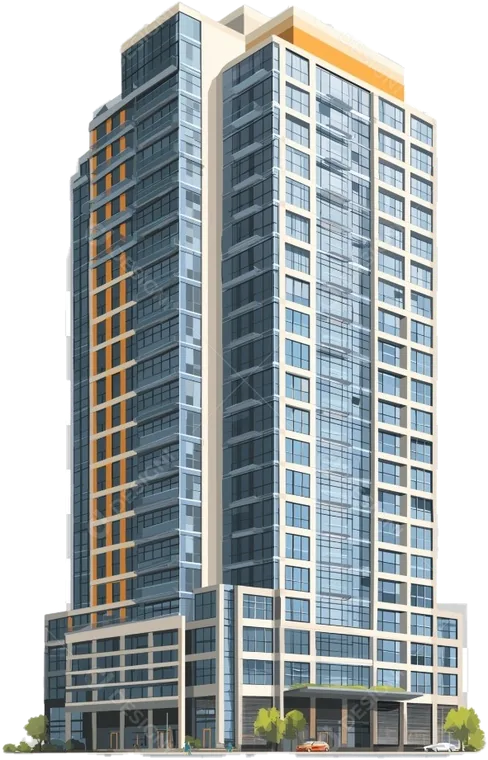
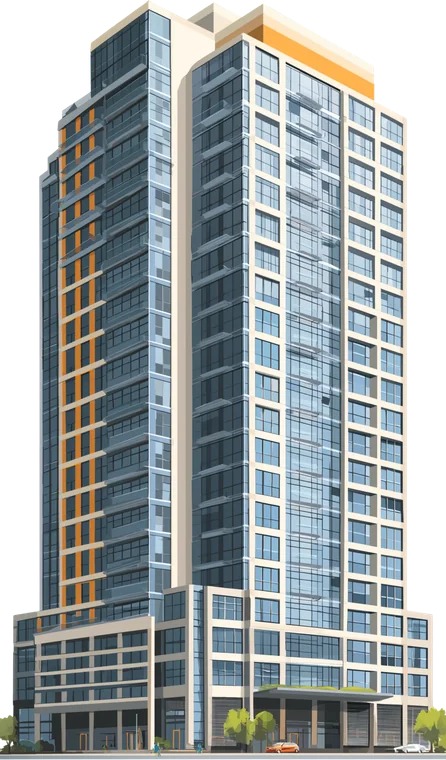
feat: prédios do topo com imagens licenciadas (primeira versão)

diff --git a/index.html b/index.html
@@ -107,11 +107,11 @@
       <!-- Prédios em foto (fundo recortado). Cada um sobe com um pequeno atraso (--atraso) e,
            no computador, se mexe um pouco com o mouse em profundidades diferentes (--prof): efeito de paralaxe -->
       <div class="skyline" id="skyline" aria-hidden="true">
-        <img class="predio" src="img/predio-2.webp" alt="" style="--x: -2%; --h: 70%; --z: 1; --atraso: 0.30s; --prof: 0.4" width="523" height="760">
-        <img class="predio" src="img/predio-1.webp" alt="" style="--x: 8%; --h: 80%; --z: 2; --atraso: 0.15s; --prof: 0.7" width="553" height="760">
-        <img class="predio" src="img/predio-4.webp" alt="" style="--x: 26%; --h: 92%; --z: 4; --atraso: 0s; --prof: 1" width="486" height="760">
-        <img class="predio" src="img/predio-3.webp" alt="" style="--x: 44%; --h: 74%; --z: 3; --atraso: 0.22s; --prof: 0.8" width="624" height="760">
-        <img class="predio" src="img/predio-5.webp" alt="" style="--x: 66%; --h: 62%; --z: 2; --atraso: 0.38s; --prof: 0.5" width="466" height="760">
+        <img class="predio" src="img/predio-2.webp" alt="" style="--x: -2%; --h: 70%; --z: 1; --atraso: 0.30s; --prof: 0.4" width="464" height="760">
+        <img class="predio" src="img/predio-1.webp" alt="" style="--x: 8%; --h: 80%; --z: 2; --atraso: 0.15s; --prof: 0.7" width="437" height="760">
+        <img class="predio" src="img/predio-4.webp" alt="" style="--x: 26%; --h: 92%; --z: 4; --atraso: 0s; --prof: 1" width="446" height="760">
+        <img class="predio" src="img/predio-3.webp" alt="" style="--x: 44%; --h: 74%; --z: 3; --atraso: 0.22s; --prof: 0.8" width="590" height="760">
+        <img class="predio" src="img/predio-5.webp" alt="" style="--x: 66%; --h: 62%; --z: 2; --atraso: 0.38s; --prof: 0.5" width="424" height="760">
       </div>
     </div>
     <svg class="curva" viewBox="0 0 1440 150" preserveAspectRatio="none" aria-hidden="true"><path d="M0,150 L0,95 C360,10 900,0 1440,70 L1440,150 Z"/></svg>

diff --git a/.mentor/TASKS.md b/.mentor/TASKS.md
@@ -12,7 +12,14 @@ Atualizado em: 2026-10-20
 - [ ] Revisão final (Etapa 20)
   - Pronto quando: Vitor confirmar as afirmações abaixo e o commit estiver feito
 
-## Afirmações do site que o Vitor precisa confirmar (vieram do protótipo)
+## Imagens do topo
+
+- Prédios do topo (img/predio-1..5.webp): imagens PNG transparentes de banco de imagens, compradas
+  (licenciadas) pelo Vitor em 2026-10-20; originais em site-guedes/_fotos_tmp. Composição da primeira
+  versão do topo. Os renders de construtoras foram descartados. A 6ª imagem comprada
+  (Edificio_Moderno_PNG_Transparente.png) ficou de reserva.
+
+## Afirmações do site (confirmadas pelo Vitor em 2026-10-20)
 
 - "Desde 2016"
 - "Dois engenheiros civis" (Vitor e Arlindo)
@@ -40,7 +47,6 @@ Atualizado em: 2026-10-20
 | O quê | Com quem |
 |---|---|
 | Fotos de Arlindo, Bruno e Flavia (Vitor e Silvia já estão no site) | Vitor |
-| Imagens de prédios: são prévias com marca d'água de banco de imagens. Baixar as versões licenciadas (PNG transparente) antes de publicar; o recorte é refeito em minutos | Vitor |
 | Fotos reais de condomínios atendidos (sem placas ou nomes) | Vitor |
 | Reunir 3 ou 4 exemplos de trabalho (sem nome de condomínio) | Vitor |
 

diff --git a/.mentor/PROJECT_STATE.md b/.mentor/PROJECT_STATE.md
@@ -60,7 +60,7 @@ Observação: os links do menu apontam para as seções atuais e mudam conforme 
 - topo com texto do protótipo, prédios animados, botão de WhatsApp (14) 99894-0464, slogan, curva vinho e faixa de valores
 - barra fixa com logo, sol/lua, Pedir orçamento e abas em pílulas (seção atual destacada)
 - WhatsApp flutuante com balão (balão só no computador)
-- topo: 5 prédios em foto (img/predio-1..5.webp, fundo recortado de _fotos_tmp) sobem ao abrir e se mexem com o mouse
+- topo: 5 prédios em foto (img/predio-1..5.webp, renders autorizados, fundo recortado de _fotos_tmp) sobem ao abrir e se mexem com o mouse
 - seção #vistoria: prédio em corte com 6 pontos clicáveis e ficha de cada um (anterior/próximo)
 - seção #construtoras: checklist da implantação; botão leva ao orçamento com "Construtora" marcado
 - seção #quem-somos: equipe com credenciais e 5 cartões
